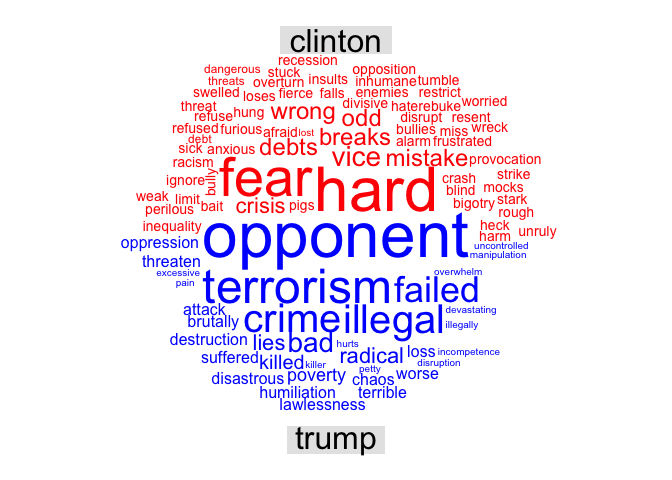
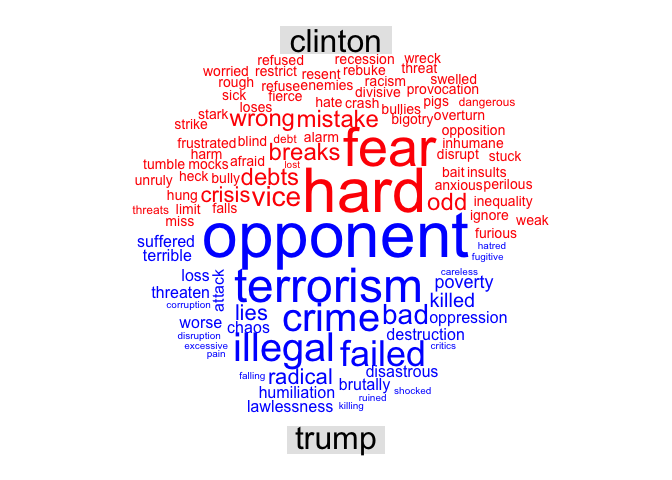
committing new graphs

Changed region(s): [[0.1875, 0.0938, 0.8438, 0.875]]

diff --git a/hw09.md b/hw09.md
@@ -6,12 +6,17 @@ Abby Bergman
 A Comparison of 2016 Democratic and Republican Party Nomination Speeches
 ========================================================================
 
+For this assignment, I decided to explore sentiments in the 2016 party nomination speeches. I chose to use the bing leicon primarily because I was most interested in positive and negative sentiments.
+
 Comparison of Negative and Positive Words for Trump
 ---------------------------------------------------
 
 ![](hw09_files/figure-markdown_github/unnamed-chunk-5-1.png)
 
-The above word cloud compares negative and positive word uses for Donald Trump's 2016 Republican Party nomination speech. The most commonly used negative words (shown large and in red) were opponent and terrorism. His most used positive words were love and protect. \#\# Comparison of Negative and Positive for Clinton
+The above word cloud compares negative and positive word uses for Donald Trump's 2016 Republican Party nomination speech. The most commonly used negative words (shown large and in red) were opponent and terrorism. His most used positive words were love and protect.
+
+Comparison of Negative and Positive for Clinton
+-----------------------------------------------
 
 ![](hw09_files/figure-markdown_github/unnamed-chunk-6-1.png)
 
@@ -22,7 +27,7 @@ Comparison of Trump and Clinton's Negative Words
 
 ![](hw09_files/figure-markdown_github/unnamed-chunk-7-1.png)
 
-The above worcloud shows the most used negative words of both speeches compared by speaker. Although this image shpws the same words as the previous two, this organization males a different comparison. Ths image shows that none of the most used words do not overlap between the two speeches.
+The above wordcloud shows the most used negative words of both speeches compared by speaker. Although this image shpws the same words as the previous two, this organization males a different comparison. Ths image shows that none of the most used words do not overlap between the two speeches.
 
 Comparison of Trump and Clinton's Positive Words
 ------------------------------------------------
@@ -30,3 +35,48 @@ Comparison of Trump and Clinton's Positive Words
 ![](hw09_files/figure-markdown_github/unnamed-chunk-8-1.png)
 
 Just as there was little to no overlap between highly used negative words in the two speeches, there was no overlap in the most used positive words.
+
+``` r
+#join speeches with nrc lexicon
+sentiment_nrc <- get_sentiments("nrc")
+
+nrc_trump <- trump_tidy %>%
+  inner_join(sentiment_nrc)
+```
+
+    ## Joining, by = "word"
+
+``` r
+nrc_clinton <- clinton_tidy %>%
+  inner_join(sentiment_nrc)
+```
+
+    ## Joining, by = "word"
+
+``` r
+#filter combined set for the sentiments I want
+nrc_clinton %>%
+  filter(sentiment != "positive") %>%
+  filter(sentiment != "negative") %>%
+  count( sentiment) %>%
+   ggplot() +
+  geom_col(aes(sentiment, n, color = sentiment, fill = sentiment)) +
+  theme(axis.text.x = element_text(angle = 90, hjust = 1)) +
+    labs(title = "Trump Speech Using nrc Lexicon", y = "Word Count")
+```
+
+![](hw09_files/figure-markdown_github/unnamed-chunk-10-1.png)
+
+``` r
+#filter trump set for the sentiments I want
+nrc_trump %>%
+  filter(sentiment != "positive") %>%
+  filter(sentiment != "negative") %>%
+  count( sentiment) %>%
+   ggplot() +
+  geom_col(aes(sentiment, n, color = sentiment, fill = sentiment)) +
+  theme(axis.text.x = element_text(angle = 90, hjust = 1)) +
+  labs(title = "Trump Speech Using nrc Lexicon", y = "Word Count")
+```
+
+![](hw09_files/figure-markdown_github/unnamed-chunk-11-1.png)
